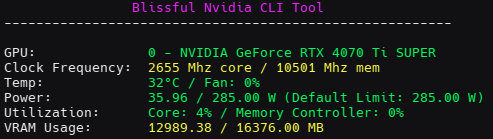
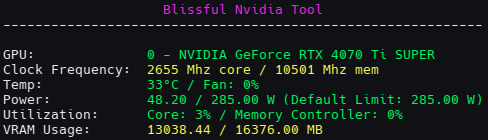
Unify naming

diff --git a/blissnvidiatool.py b/blissnvidiatool.py
@@ -1,13 +1,13 @@
 """
 =================================================
-                  Blissful Nvidia CLI Tool
+                  Blissful Nvidia Tool
 =================================================
 Description:
 Simple CLI tool for monitoring and overclocking Nvidia Graphics Cards
 
 Dependencies:
-nvidia-ml-py - NOT pynvml which is the older, deprecated version and does not have the needed functionality.
-Nvidia Driver 555.xx or greater
+nvidia-ml-py - NOT pynvml which is the older, deprecated version and does not have the needed functionality for all features.
+Nvidia Driver 555.xx or greater for all features.
 
 License:
 MIT License - See below for full text
@@ -99,8 +99,8 @@ def draw_dashboard(stdscr):
         stdscr.addstr(6,0, "Power: ")
         stdscr.addstr(7,0, "Utilization: ")
         stdscr.addstr(8,0, "VRAM Usage: ")
-        stdscr.addstr(0, 0, "                Blissful Nvidia CLI Tool", curses.color_pair(5))
-        stdscr.addstr(1, 0, "--------------------------------------------------------")
+        stdscr.addstr(0, 0, "                    Blissful Nvidia Tool", curses.color_pair(5))
+        stdscr.addstr(1, 0, "------------------------------------------------------------")
         stdscr.addstr(3, 18, f"{args.gpu_number} - {gpu_name}", curses.color_pair(1))
         stdscr.addstr(4, 18, f"{core_clock} Mhz core / {mem_clock} Mhz mem", curses.color_pair(clock_color))
         stdscr.addstr(5, 18, f"{current_temperature}°C / Fan: {fan_speed}%", curses.color_pair(temp_color))
@@ -121,8 +121,8 @@ nvmlInit()
 gpu = nvmlDeviceGetHandleByIndex(args.gpu_number)
 
 if args.set_clocks or args.set_power_limit or args.set_max_fan or args.set_auto_fan:
-    print("Blissful Nvidia CLI Tool Non-interactive Mode")
-    print("_____________________________________________")
+    print("Blissful Nvidia Tool Non-interactive Mode")
+    print("_________________________________________")
     print("User accepts ALL risks of overclocking/altering power limits/fan settings!")
     print("Additionally, root permission is needed for these changes and the script will fail without it!")
     print()
